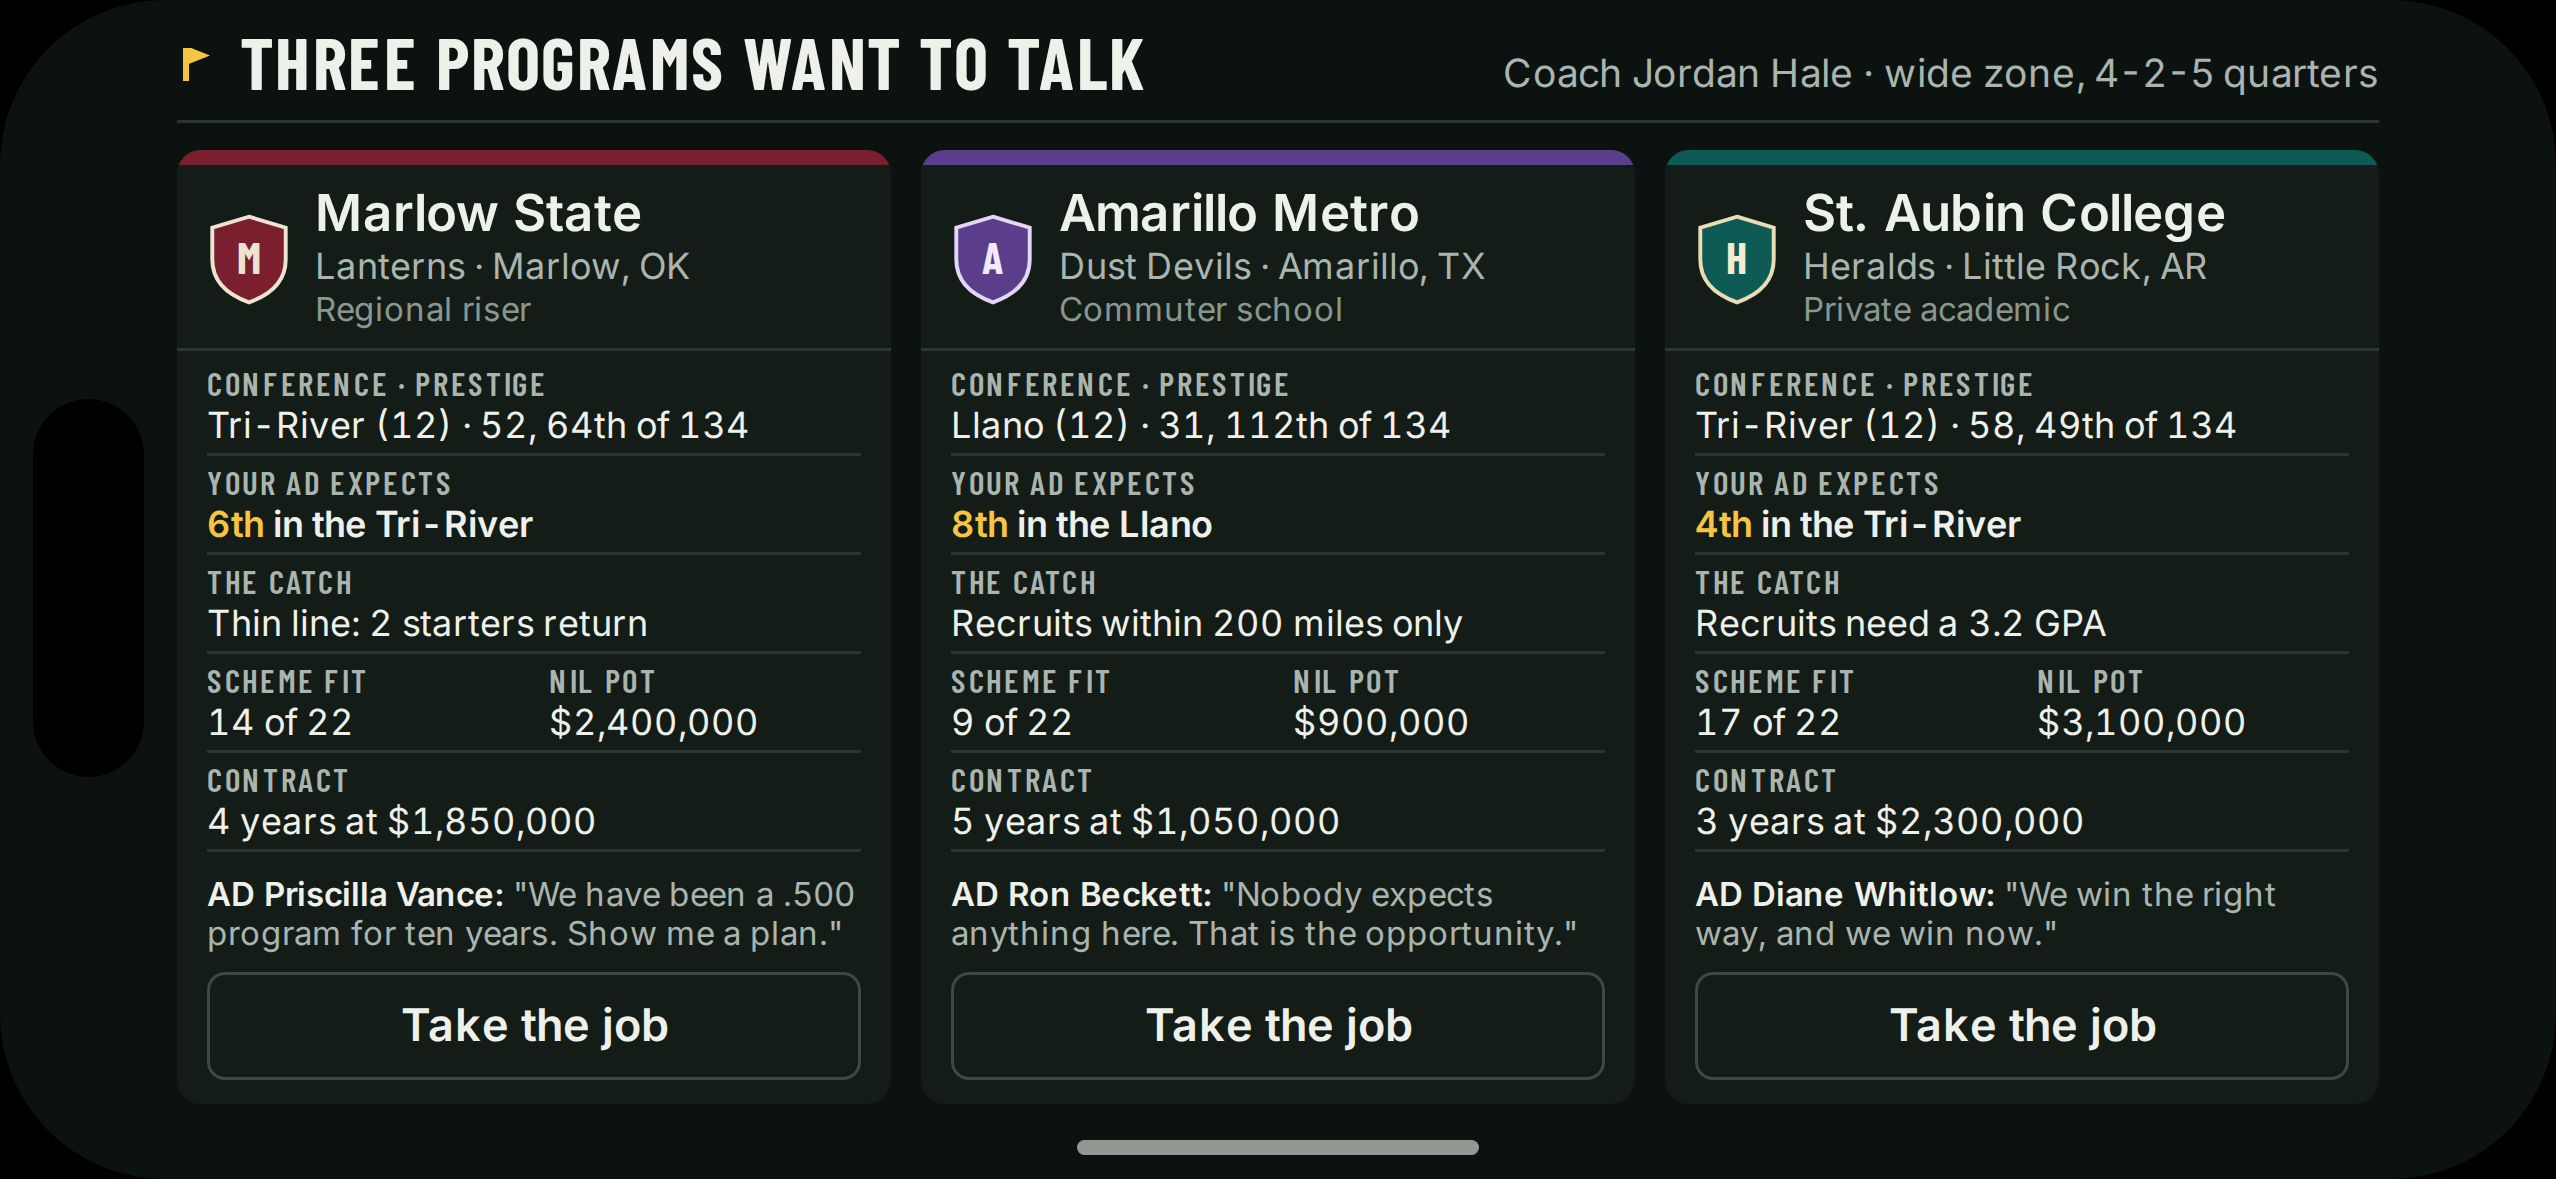
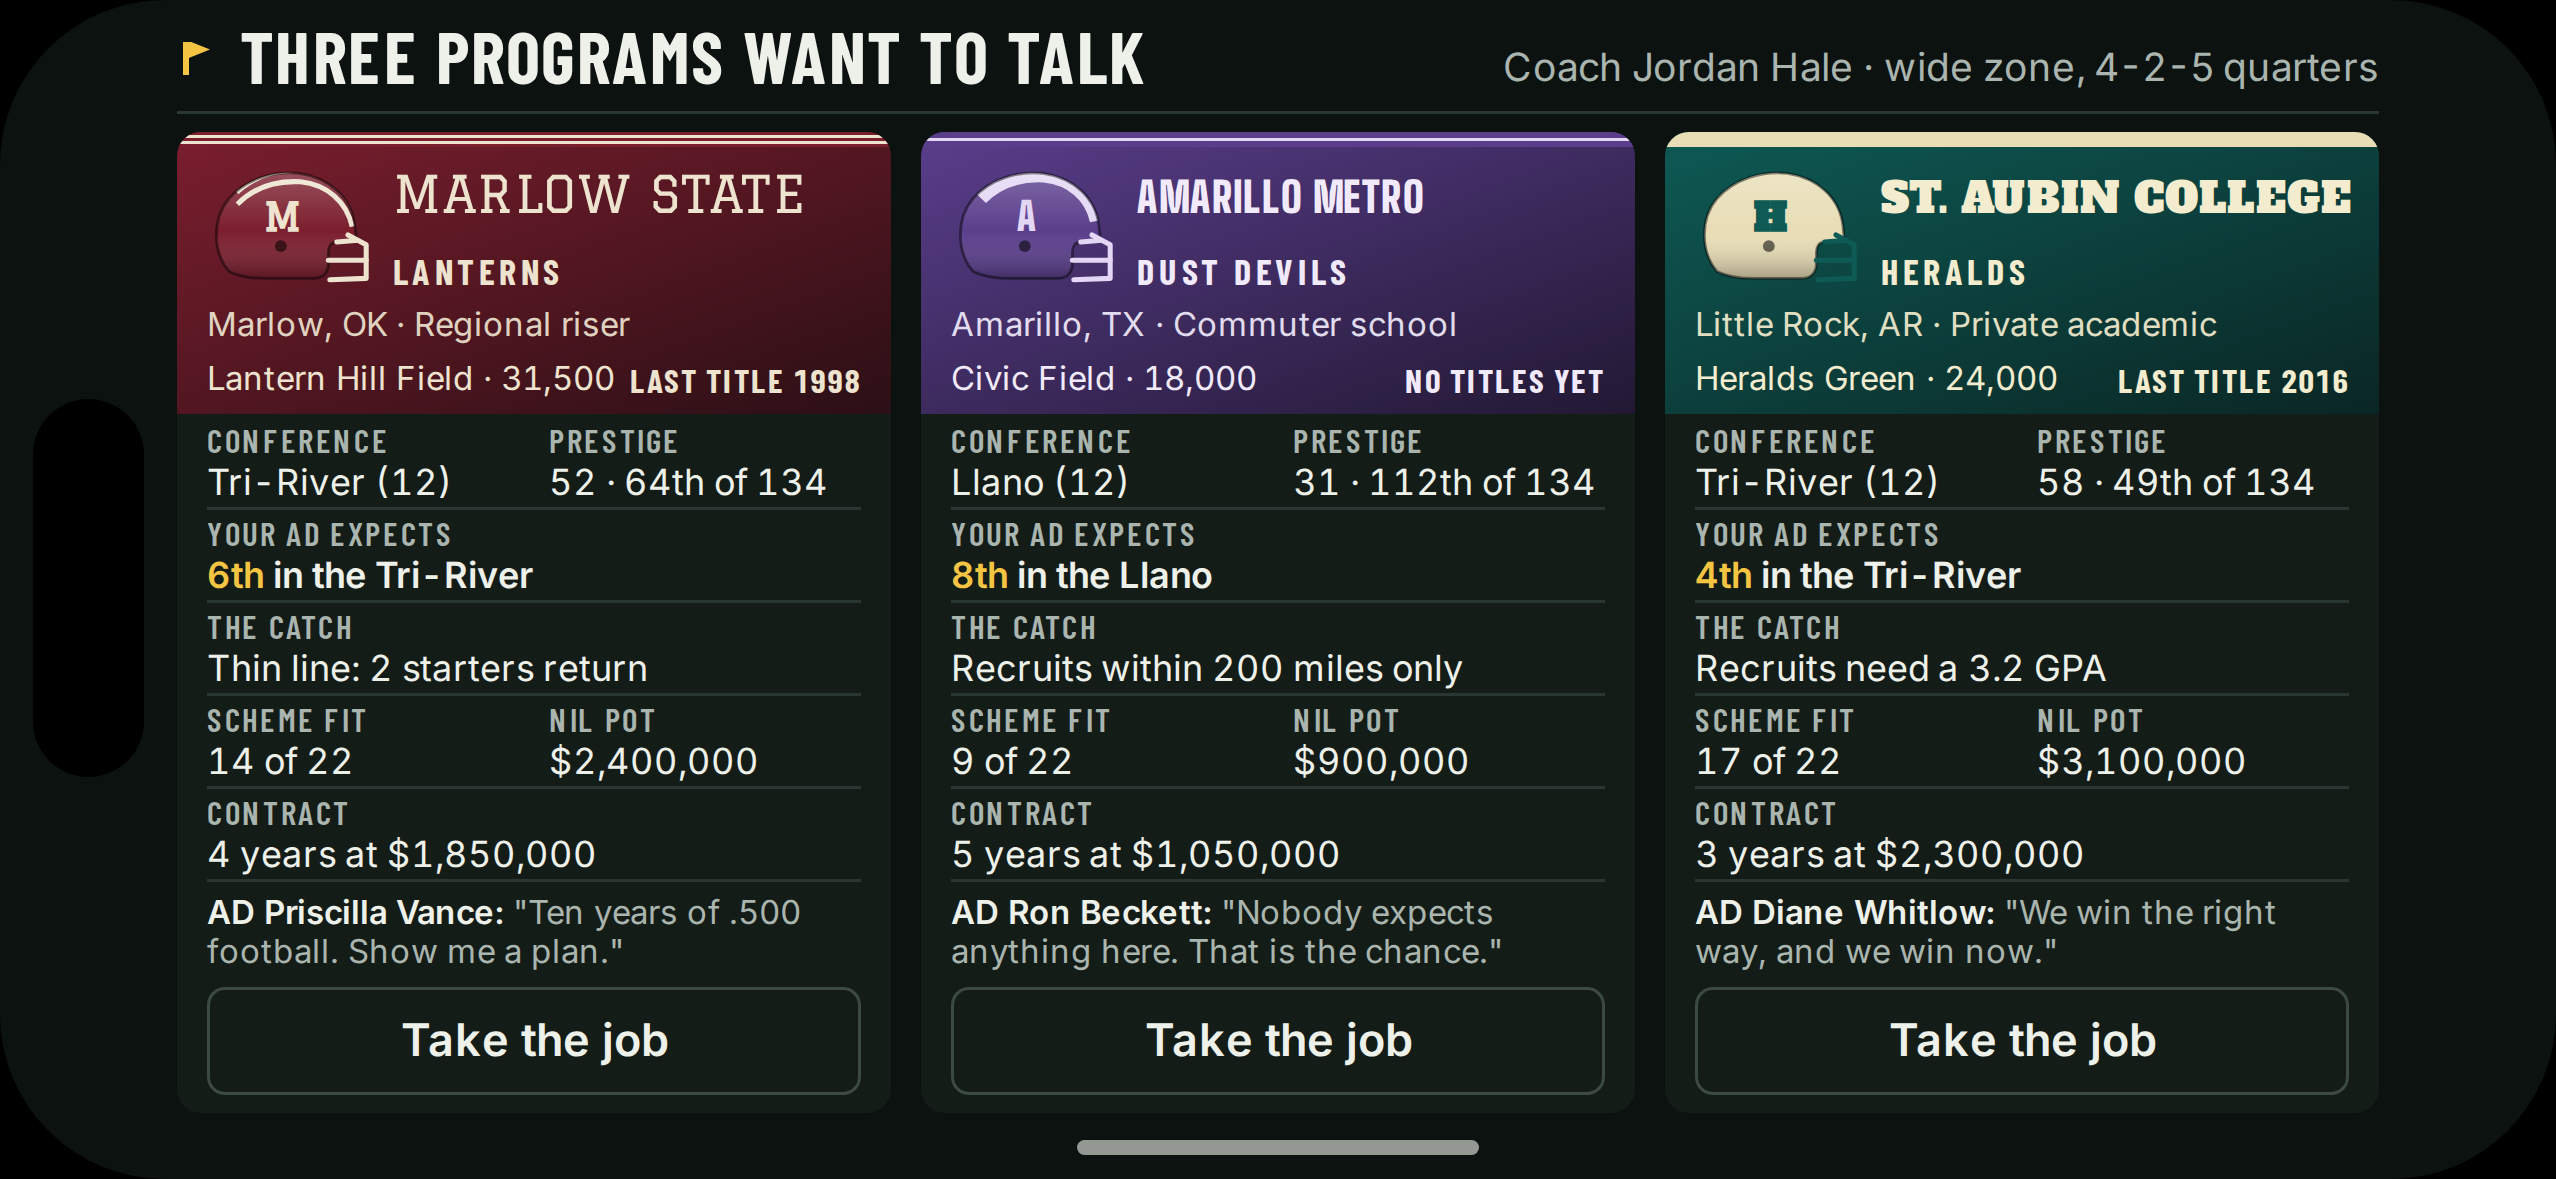
docs(design): propose v1 of the look: 14 images with game identity
Claude-Session: https://claude.ai/code/session_01No5CpnTcyuUAWPhJDCXJsM

diff --git a/design/README.md b/design/README.md
@@ -1,65 +1,83 @@
 # Design images — for the owner's approval
 
-Status: **proposed, not yet approved.** Nothing else gets built until these are approved (GOAL §0).
+Status: **v1, proposed, not yet approved.** Nothing else gets built until these are approved
+(GOAL §0). v1 keeps v0's information architecture and adds game identity: every club brings its
+own dress, match day is an event, and rare moments get the whole screen.
 
-Every image shows the same save. **Coach Jordan Hale** (wide zone, 4-2-5 quarters) takes the
-**Marlow State Lanterns** job in the Tri-River Conference. It is **Week 6 of 2026**, and the week
-ends in a game **at Sedalia A&M**. Images 02–08 and 10 follow that week in order: the hub, the
-plan, the depth chart and a player's profile before kickoff; the fourth-down call in the fourth
-quarter; the aftermath and job security after the 27–24 win. Image 01 is the same save's first
-screen. Image 09 is the same save seven seasons later, after promotion, and it shows Okafor again.
-Every rule and number behind these images is in `DESIGN.md`. An image never sets a fact.
+Every image shows the same save. **Coach Jordan Hale** takes the **Marlow State Lanterns** job in
+the Tri-River Conference and gives his first press conference. It is then **Week 6 of 2026**, and the
+week ends in a night game **at Sedalia A&M**. Images 03–09 and 11 follow that week in order: the
+hub, the plan, the call on 4th and 2, the 27–24 win and its aftermath, recruiting, a player and
+the depth chart, and job security afterwards. Image 10 is the same save seven seasons later, after
+promotion, and it shows Okafor again. Every rule and number behind these images is in
+`DESIGN.md`. An image never sets a fact.
 
 Screens are iPhone 15 Pro class in landscape, 852 × 393 pt, rendered at 3x (2556 × 1179). The
 Dynamic Island and the landscape safe areas (59 pt at each side, 21 pt at the bottom) are drawn in.
 
 | Image | What it is for | The decision it hosts | Pillar |
 |---|---|---|---|
-| [01 Job offers](01-job-offers.png) | The first screen of a career. Three jobs, each with the AD's expectation stated as a finishing place, and the job's catch | Which job, and so which expectation and which constraint you accept | 2 one career; 6 stakes from named people |
-| [02 Week](02-week.png) | The weekly hub: where you stand, what changed, and what still needs you. Continue names the next obligation | None of its own. It routes to the week's four decisions and flags them | 3 the week is the heartbeat; 10 fits a life |
-| [03 Prep](03-prep.png) | Film, game plan and practice on one surface. 20 practice hours are the plan's currency | Split the 20 hours; attack two things, take away two; set three dials | 1 the coach's agency; 3 real decisions |
-| [04 Match, call-in](04-match-call-in.png) | The match on the whole field. The coordinator has called in the coach on 4th and 2, and the selected play is drawn on the field | Three options with what each tries and risks, estimate ranges, a recommendation and its reason, or defer | 1, 4 watched, understood, shaped |
-| [05 Aftermath](05-aftermath.png) | What the plan and the calls did: the game's flow with your calls marked, a scorecard for each plan choice, and the consequences | None. It shows cause and effect for the week's decisions | 3 consequences visible; 8 legible |
-| [06 Recruiting](06-recruiting.png) | A shortlist with a budget, not a database. Your evaluations are ranges, and each recruit's three wants explain his interest | Spend 12 contact points: call, evaluate, home visit, host a visit | 8 legible; 3 real decisions |
-| [07 Player profile](07-player-profile.png) | One player's dossier: ratings and their change, the causes of his development, his traits and his status | His family's NIL ask, answered beside its cause | 8 development has causes |
-| [08 Depth chart](08-depth-chart.png) | The offense as a formation, with backups, fatigue and injury status | Who starts at running back; whether a freshman spends his last spare redshirt game | 3, 5 credible football |
-| [09 Cap ledger](09-cap-ledger.png) | The pro tier's money model in integer dollars: proration, dead money, reserved draft picks, the compliance date | How to get under the cap before the league year opens | 2 the pro reset |
-| [10 Job security](10-job-security.png) | Security against the expectation, the arithmetic of this week's move, and the four groups with their wants | None. It explains why security moved and what each group wants next | 6 stakes that move weekly; 8 legible |
-| [11 Visual language](11-visual-language.png) | Palette with measured contrast, type, spacing, key components and how club colours are applied | — | 5 credibility; accessibility |
-| [12 Match at AX5](12-match-ax5.png) · [full scroll](12-match-ax5-full.png) | Image 04 at the largest accessibility text size | The same call. The options come first; reasons, buttons, field and last snap follow on scroll | Accessibility |
-| [13 Recruiting at AX5](13-recruiting-ax5.png) · [full scroll](13-recruiting-ax5-full.png) | Image 06 at the largest accessibility text size | The same facts per recruit, one block each; the dossier opens as its own page | Accessibility |
+| [01 Job offers](01-job-offers.png) | Three programmes as posters: helmet, wordmark, venue, last title. Below each, the AD's expectation as a finishing place and the job's catch | Which job, and so which expectation and constraint | 2 one career; 6 stakes; 7 identity |
+| [02 Hired](02-hired.png) | A moment: the introductory press conference, with banners in the rafters and an empty one waiting | Your first words: each message wins one group and records a promise | 6 stakes from named people; 7 identity |
+| [03 Week](03-week.png) | The hub: what still needs you, what changed, and a matchup card with both helmets, the venue and the home side's tradition | None of its own; it routes to the week's decisions | 3 the week is the heartbeat |
+| [04 Prep](04-prep.png) | Film, game plan and practice on one surface; 20 practice hours are the plan's currency | Split the hours; attack two, take away two; three dials | 1 agency; 3 real decisions |
+| [05 Match, call-in](05-match-call-in.png) | Gameday: Foundry Field in Sedalia's colours, helmets on the scorebug, a crowd plate whose noise has an effect | 4th and 2: three options with tries, risks and estimate ranges, or defer | 1, 4 watched and shaped; 5 credible |
+| [06 Aftermath](06-aftermath.png) | A final card with both helmets and the play of the game, then what the plan and the calls did | None; cause and effect for the week | 3 consequences; 8 legible |
+| [07 Recruiting](07-recruiting.png) | A shortlist with a budget. Evaluations are ranges; each recruit's wants explain his interest; his top three shown by helmet | Spend 12 contact points | 8 legible; 3 real decisions |
+| [08 Player profile](08-player-profile.png) | A dossier: his number in Marlow's own typeface, ratings and their causes, traits, status | His family's NIL ask, beside its cause | 8 development has causes |
+| [09 Depth chart](09-depth-chart.png) | The offense as a formation, with backups, fatigue and injury | Who starts at running back; a freshman's last spare redshirt game | 3, 5 credible football |
+| [10 Cap ledger](10-cap-ledger.png) | The pro tier in Hartford's dress: integer dollars, proration, dead money, reserved picks, the compliance date | How to get under the cap before the league year opens | 2 the pro reset |
+| [11 Job security](11-job-security.png) | Security against the expectation with this week's arithmetic, the four groups (including the fans' promise), and the banners in the rafters | None; it explains why security moved | 6 stakes; 8 legible |
+| [12 Visual language](12-visual-language.png) | The three registers, the identity kit for four clubs, palette with measured contrast, type and components | — | 5, 7; accessibility |
+| [13 Match at AX5](13-match-ax5.png) · [full scroll](13-match-ax5-full.png) | Image 05 at the largest accessibility text size | The same call; options first, then reasons, buttons, field and last snap | Accessibility |
+| [14 Recruiting at AX5](14-recruiting-ax5.png) · [full scroll](14-recruiting-ax5-full.png) | Image 07 at the largest accessibility text size | The same facts per recruit, one block each | Accessibility |
 
-## The look in four rules
+## The look in five rules
 
-1. **Night field, chalk lines.** A dark ground, thin chalk rules, and hash marks after section
-   headers.
-2. **Yellow is yours to decide**, and marks the line to gain. The pennant marks a decision that is
-   yours. Nothing else is yellow.
-3. **Blue is an estimate**, always a range and never a point. Facts are chalk.
-4. **Club colours stay in their places:** the rail stripe, the monogram, the scorebug plate and
-   the player marks. Offense is a disc and defense a chevron, so colour is never the only cue.
+1. **Every club brings its own dress.** Helmet, wordmark face, stripe pattern, venue and tradition
+   come from one generator. Your club dresses the frame of every screen: the rail wears its deep
+   colour and helmet, and its stripe pattern sits under every header.
+2. **Three registers.** The office is calm and dense. Gameday is the stadium under lights, dressed
+   in the home club's colours. A moment (hired, signing day, a trophy, promotion) is rare,
+   full-bleed and still holds a real decision.
+3. **Yellow is yours to decide**, and marks the line to gain. Nothing else is yellow.
+4. **Blue is an estimate**, always a range and never a point. Facts are chalk.
+5. **Earned things hang as banners**, in the club's colours, with an empty one waiting.
+
+## How v1 found its identity
+
+The owner asked for Forge Field's sense of pageantry and team identity without copying it. v1
+takes patterns from it and from the reference games, and nothing else:
+- the club carries through the whole product;
+- registers of drama;
+- the helmet as the team;
+- stadium pageantry that changes a number;
+- a reserved treatment for what has been earned.
+
+`DECISIONS.md` lists where each pattern is seen, and what was deliberately left behind.
 
 ## Notes for reading the images
 
 - Text is set in Inter as a stand-in for SF Pro, the system font the app will use. Barlow
-  Condensed is the display face and will ship in the app (SIL Open Font License), so it renders
-  as it will on the device. Rail icons are stand-ins for SF Symbols.
-- UI copy is US English because the sport is American ("offense", "programs"). The design documents
-  keep the owner's spelling.
+  Condensed and the three wordmark faces (varsity, slab, block) will ship in the app under the SIL
+  Open Font License, so they render as they will on the device. Rail icons are stand-ins for SF
+  Symbols. Helmets are drawn by a committed generator, not by hand.
+- UI copy is US English because the sport is American. The design documents keep the owner's
+  spelling.
 - At accessibility sizes, screens become one scrolling column. The rail keeps its icons and shows
   a label large on a long press, and Continue moves to the end of the column. The *full scroll*
-  images show everything below the first screen, so you can check that nothing is lost.
+  images show everything below the first screen.
 - The field keeps its true length and is drawn at 88% of its true width, so the scorebug and the
   caption fit. During a call-in the panel covers the half of the field away from the ball.
 
 ## Regenerating
 
-The source is in `design/src`: one HTML file per screen, with shared tokens, components and the
-field renderer. To render every screen:
+The source is in `design/src`: one HTML file per screen, with shared tokens, the identity kit
+(helmet, wordmark, stripe rule, banners, matchup card) and the field renderer.
 
 ```
 cd design/src && npm install && npm run render
 ```
 
-`npm run render -- 04` renders only the screens whose names start with `04`. The script fails
-if any page raises an error.
+`npm run render -- 05` renders only the screens whose names start with `05`. The script fails if
+any page raises an error.
